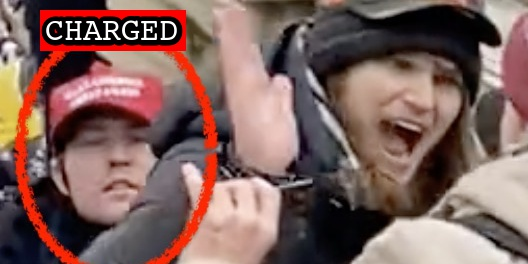
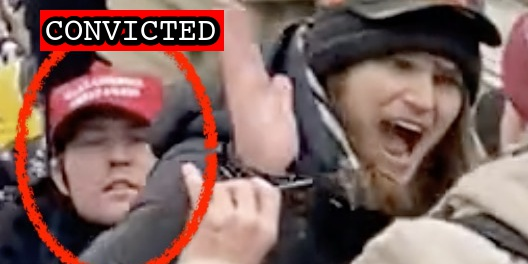
Latest import

Changed region(s): [[0.1212, 0.0303, 0.4242, 0.2121]]

diff --git a/docs/_suspects/timothy-omalley.md b/docs/_suspects/timothy-omalley.md
@@ -3,7 +3,7 @@ name: Timothy O'Malley
 lastName: O'Malley
 hashtag: TimothyOMalley
 aka:
-residence: FLorida
+residence: Florida
 status: Convicted
 date: 2021-06-28
 charged: 2021-06-28
@@ -34,11 +34,14 @@ published: true
 caseNumber: 1:21-mj-504
 videos:
 charges:
-- code: 18 USC § 5104(e)(2)(G)
-  title: Parading, demonstrating or picketing in a Capitol building
-  url: https://www.law.cornell.edu/uscode/text/40/5104
-  felony: false
+  - code: 18 USC § 5104(e)(2)(G)
+    title: Parading, demonstrating or picketing in a Capitol building
+    url: https://www.law.cornell.edu/uscode/text/40/5104
+    felony: false
 sentence:
 ---
+
 - [News Report](https://www.wkrg.com/northwest-florida/okaloosa-county-man-charged-with-taking-part-in-u-s-capitol-riot/)
 - [Statement of Facts](https://www.justice.gov/usao-dc/case-multi-defendant/file/1408321/download)
+- [Information](https://extremism.gwu.edu/sites/g/files/zaxdzs2191/f/Timothy%20Earl%20O%27Malley%20Information.pdf)
+- [Plea Agreement](https://extremism.gwu.edu/sites/g/files/zaxdzs2191/f/Timothy%20Earl%20O%27Malley%20Plea%20Agreement.pdf)

diff --git a/docs/_suspects/robert-chapman.md b/docs/_suspects/robert-chapman.md
@@ -34,13 +34,14 @@ published: true
 caseNumber:
 videos:
 charges:
-  - code: 18 USC § 5104(e)(2)(G)
-    title: Parading, demonstrating or picketing in a Capitol building
-    url: https://www.law.cornell.edu/uscode/text/40/5104
-    felony: false
+- code: 18 USC § 5104(e)(2)(G)
+  title: Parading, demonstrating or picketing in a Capitol building
+  url: https://www.law.cornell.edu/uscode/text/40/5104
+  felony: false
 sentence:
 ---
-
 - [News Report](https://www.cnn.com/2021/04/23/politics/bumble-capitol-riot-robert-chapman/index.html)
 - [Complaint](https://www.justice.gov/usao-dc/case-multi-defendant/file/1389161/download)
 - [Statement of Facts](https://www.justice.gov/usao-dc/case-multi-defendant/file/1389166/download)
+- [Information](https://extremism.gwu.edu/sites/g/files/zaxdzs2191/f/Robert%20Chapman%20Information.pdf)
+- [Plea Agreement](https://extremism.gwu.edu/sites/g/files/zaxdzs2191/f/Robert%20Chapman%20Plea%20Agreement.pdf)

diff --git a/docs/_suspects/mark-kulas.md b/docs/_suspects/mark-kulas.md
@@ -4,15 +4,15 @@ lastName: Kulas
 hashtag:
 aka:
 residence: Illinois
-status: Charged
+status: Convicted
 date: 2021-11-19
 charged: 2021-11-19
 indicted:
-convicted:
+convicted: 2021-12-06
 sentenced:
 dismissed:
 deceased:
-plea_hearing:
+plea_hearing: 2021-12-06
 sentencing:
 age: 27
 occupation:
@@ -36,5 +36,8 @@ videos:
 charges:
 sentence:
 ---
+
 - [News Report](https://chicago.suntimes.com/crime/2021/11/23/22799088/lake-forest-man-to-plead-guilty-to-charges-in-jan-6-capitol-riot-feds)
 - [Information](https://extremism.gwu.edu/sites/g/files/zaxdzs2191/f/Mark%20Kulas%20Information.pdf)
+- [Plea Agreement](https://extremism.gwu.edu/sites/g/files/zaxdzs2191/f/Mark%20Kulas%20Plea%20Agreement.pdf)
+- [Statement of Facts](https://extremism.gwu.edu/sites/g/files/zaxdzs2191/f/Mark%20Kulas%20Statement%20of%20Offense.pdf)
